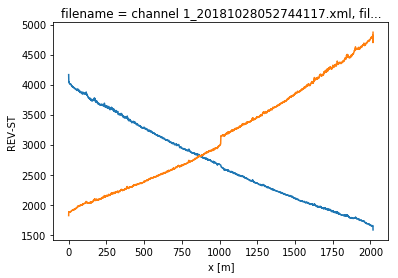
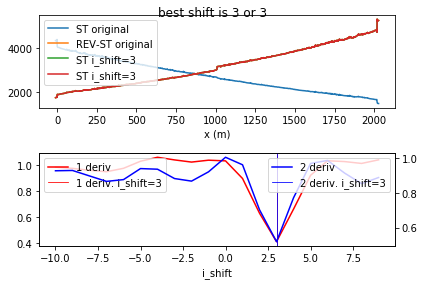
Updated example, small adjustments in merge function aligment
The notebook example now includes the new double-ended merge function. Some small adjustments in the merge function now take alignment into acount, and reindex based on the LAF-resolution. Added a test for the merge function

diff --git a/tests/test_datastore.py b/tests/test_datastore.py
@@ -16,6 +16,7 @@ from dtscalibration import read_apsensing_files
 from dtscalibration import read_sensornet_files
 from dtscalibration import read_sensortran_files
 from dtscalibration import read_silixa_files
+from dtscalibration.datastore_utils import merge_double_ended
 from dtscalibration.datastore_utils import shift_double_ended
 from dtscalibration.datastore_utils import suggest_cable_shift_double_ended
 
@@ -44,6 +45,12 @@ if 1:
     data_dir_single_silixa_v7 = os.path.join(wd, 'data', 'silixa_v7.0')
     data_dir_ap_sensing = os.path.join(wd, 'data', 'ap_sensing')
     data_dir_sensortran_binary = os.path.join(wd, 'data', 'sensortran_binary')
+    data_dir_double_single_ch1 = os.path.join(wd, 'data',
+                                              'double_single_ended',
+                                              'channel_1')
+    data_dir_double_single_ch2 = os.path.join(wd, 'data',
+                                              'double_single_ended',
+                                              'channel_2')
 
     # zips
     data_dir_zipped_single_ended = os.path.join(
@@ -592,3 +599,28 @@ def test_suggest_cable_shift_double_ended():
     suggest_cable_shift_double_ended(ds, irange, plot_result=True)
 
     pass
+
+
+def test_merge_double_ended():
+    # Checking if alignment keeps working as designed and if the expected
+    # result changed
+    filepath_fw = data_dir_double_single_ch1
+    filepath_bw = data_dir_double_single_ch2
+
+    ds_fw = read_silixa_files(
+                directory=filepath_fw)
+
+    ds_bw = read_silixa_files(
+                directory=filepath_bw)
+
+    cable_length = 2017.7
+    ds = merge_double_ended(ds_fw, ds_bw,
+                            cable_length=cable_length,
+                            plot_result=True)
+
+    result = (ds.isel(time=0).ST -
+              ds.isel(time=0)['REV-ST']).sum().values
+
+    np.testing.assert_approx_equal(result,
+                                   -3712866.0382,
+                                   significant=10)

diff --git a/src/dtscalibration/datastore_utils.py b/src/dtscalibration/datastore_utils.py
@@ -125,20 +125,28 @@ def merge_double_ended(ds_fw, ds_bw, cable_length, plot_result=True):
             ds_bw.attrs['isDoubleEnded'] == '0'), \
         "(one of the) input DataStores is already double ended"
 
-    ds_fw = ds_fw.sel(x=slice(0, cable_length))
-    ds_bw = ds_bw.sel(x=slice(0, cable_length))
-
-    ds_bw['x'] = cable_length - ds_bw.x.values
-    ds_bw = ds_bw.sortby('x')
+    assert (ds_fw.time.size == ds_bw.time.size), \
+        "The two input DataStore objects are not of the same size in the " +\
+        "time dimension."
 
     ds = ds_fw.copy()
+    ds_bw = ds_bw.copy()
+
+    ds_bw['x'] = cable_length - ds_bw.x.values
 
     # TODO: check if reindexing matters, and should be used.
-    # one way to do it is show below, but this could create artifacts
-    # ds_bw.reindex('x', ds.x, method='nearest')
+    # one way to do it is performed below, but this could create artifacts
+    x_resolution = ds.x.values[1] - ds.x.values[0]
+    ds_bw = ds_bw.reindex({'x': ds.x},
+                          method='nearest',
+                          tolerance=0.99*x_resolution)
+
+    ds_bw = ds_bw.sortby('x')
 
     ds['REV-ST'] = (['x', 'time'], ds_bw.ST.values)
     ds['REV-AST'] = (['x', 'time'], ds_bw.AST.values)
+
+    ds = ds.dropna(dim='x')
 
     ds.attrs['isDoubleEnded'] = '1'
     ds['userAcquisitionTimeBW'] = ('time',

diff --git a/docs/examples/notebooks/11Merge_single_measurements_into_double.ipynb.rst b/docs/examples/notebooks/11Merge_single_measurements_into_double.ipynb.rst
@@ -1,5 +1,5 @@
-11. Merge single-ended measurements into a double-ended datastore
-=================================================================
+11. Merge two single-ended measurements into a double-ended datastore
+=====================================================================
 
 Often people have set up a double ended cable to be measured as if it
 were two single ended setups, to prevent loss of data as some
@@ -11,7 +11,7 @@ to be merged into a single datastore and aligned.
 
     import os
     from dtscalibration import read_silixa_files
-    from dtscalibration.datastore_utils import suggest_cable_shift_double_ended, shift_double_ended
+    from dtscalibration.datastore_utils import suggest_cable_shift_double_ended, shift_double_ended, merge_double_ended
     import numpy as np
     import matplotlib.pyplot as plt
     %matplotlib inline
@@ -46,7 +46,7 @@ We load in both channels into seperate datastores
     Recorded at 8936 points along the cable
     The measurement is single ended
     Reading the data from disk
-
+    
 
 When plotting the data the two datasets already look quite similar as it
 is a duplex measurement.
@@ -62,12 +62,12 @@ is a duplex measurement.
 
 .. parsed-literal::
 
-    <matplotlib.legend.Legend at 0x11eb1a790>
+    <matplotlib.legend.Legend at 0x14fb0b50>
 
 
 
 
-.. image:: 11Merge_single_measurements_into_double.ipynb_files/11Merge_single_measurements_into_double.ipynb_6_1.png
+.. image:: 11Merge_single_measurements_into_double.ipynb_files%5C11Merge_single_measurements_into_double.ipynb_6_1.png
 
 
 The second channel has to be flipped around to align the fibers
@@ -75,71 +75,37 @@ correctly. To do this properly, a cable length has to be defined. This
 is the distance along the fiber between the connectors of channel 1 and
 channel 2.
 
+Make sure the two datasets are aligned time-wise and have the same
+amount of measurements in time. Now we can merge the two channels using
+the utilify function *merge_double_ended*
+
 .. code:: ipython3
 
     cable_length = 2017.7
     
-    ds_ch2['x'] = cable_length - ds_ch2.x.values
-    ds_ch2 = ds_ch2.sortby('x')
+    ds = merge_double_ended(ds_fw = ds_ch1,
+                            ds_bw = ds_ch2,
+                            cable_length = cable_length,
+                            plot_result = False)
     
-    ds_ch1.isel(time=0).ST.plot(label='ST ch1')
-    ds_ch2.isel(time=0).ST.plot(label='ST ch2')
-    plt.legend()
-
-
+    print((ds.isel(time=0).ST - ds.isel(time=0)['REV-ST']).sum().values)
 
 
 .. parsed-literal::
 
-    <matplotlib.legend.Legend at 0x11ecd0b50>
-
-
-
-
-.. image:: 11Merge_single_measurements_into_double.ipynb_files/11Merge_single_measurements_into_double.ipynb_8_1.png
-
-
-Now the second channel has been reversed, we can merge the two channels.
-Make sure the two datasets are aligned time-wise and have the same
-amount of measurements in time. After merging some attributes have to be
-set to allow for double ended calibration
-
-.. code:: ipython3
-
-    ds_ch1 = ds_ch1.sel(x=slice(0, cable_length))
-    ds_ch2 = ds_ch2.sel(x=slice(0, cable_length))
+    -3712866.0382
     
-    ds = ds_ch1
-    
-    ds['REV-ST'] = (['x','time'], ds_ch2.ST.values)
-    ds['REV-AST'] = (['x','time'], ds_ch2.AST.values)
-    
-    ds.attrs['isDoubleEnded'] = '1'
-    ds['userAcquisitionTimeBW'] = ('time', ds_ch2['userAcquisitionTimeFW'].values)
-    
-    plt.figure()
-    ds['ST'].isel(time=0).plot()
-    ds['REV-ST'].isel(time=0).plot()
-
-
-
-
-.. parsed-literal::
-
-    [<matplotlib.lines.Line2D at 0x11edc13d0>]
-
-
-
-
-.. image:: 11Merge_single_measurements_into_double.ipynb_files/11Merge_single_measurements_into_double.ipynb_10_1.png
-
 
 To perfectly align the two measurements we can use the alignment
-utility. It turns out we were off by 3 datapoints, so let’s shift it by
-that.
+utility. Before we do so, we select only the data of the phyisical cable
+and 10 meters of the internal reference coil.
+
+It turns out we were off by 3 datapoints, so let’s shift it by that.
 
 .. code:: ipython3
 
+    ds = ds.sel(x=slice(-10, cable_length + 10))
+    
     shift1, shift2 = suggest_cable_shift_double_ended(ds.isel(time=[0,-1]).compute(),
                                                       np.arange(-10, 10, 1, dtype=int))
     
@@ -151,10 +117,10 @@ that.
     I dont know what to do with the following data ['TMP']
     I dont know what to do with the following data ['TMP']
     I dont know what to do with the following data ['TMP']
+    
 
 
-
-.. image:: 11Merge_single_measurements_into_double.ipynb_files/11Merge_single_measurements_into_double.ipynb_12_1.png
+.. image:: 11Merge_single_measurements_into_double.ipynb_files%5C11Merge_single_measurements_into_double.ipynb_10_1.png
 
 
 Now we can calibrate the data double ended as usual.
